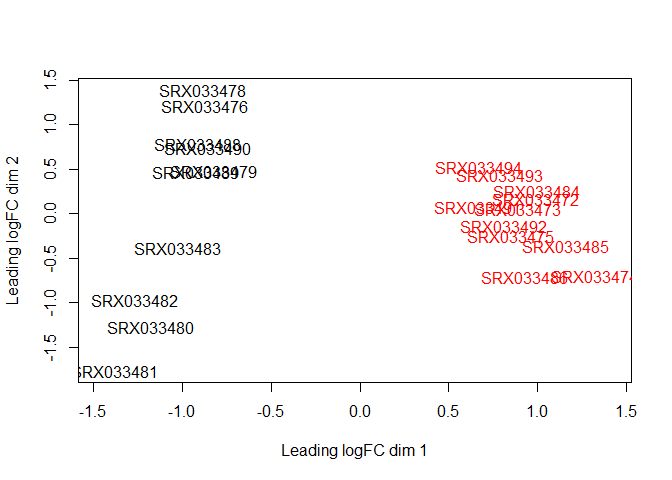
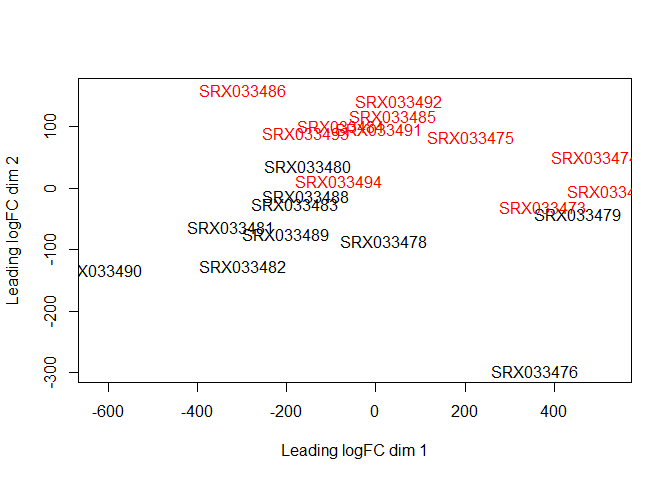
Remove using log count

diff --git a/RNASeq/seminar7_rnaseq.md b/RNASeq/seminar7_rnaseq.md
@@ -137,10 +137,10 @@ head(dge.obj$samples)
 What's the smallest lib.size?
 
 ``` r
-min(dge.obj$samples$lib.size)
+(min_lib_size_million <- min(dge.obj$samples$lib.size) / 1000000)
 ```
 
-    ## [1] 2717092
+    ## [1] 2.717092
 
 The smallest lib size is about 2.7 millions.
 
@@ -151,7 +151,7 @@ The smallest lib size is about 2.7 millions.
 According to the manual, we would drop off the genes that aren't present in at least one sample for any of the conditions and filter with CPM (count-per-million) instead of the rare counts so that we're taking the library sizes into account.
 
 ``` r
-dge.obj.cpm <- cpm(dge.obj, log=TRUE) # count per million. Not sure if I need to do log=TRUE to log transform (base 2) here. 
+dge.obj.cpm <- cpm(dge.obj) # count per million. Not sure if I need to do log=TRUE to log transform (base 2) here. 
 # sanity check using unsupervised clustering
 plotMDS(dge.obj.cpm,  col=c(rep("black",10), rep("red",11)) ) 
 ```
@@ -160,24 +160,24 @@ plotMDS(dge.obj.cpm,  col=c(rep("black",10), rep("red",11)) )
 
 ``` r
 # Filtering 
-threshold <- log2(5)
-keep <- rowSums(dge.obj.cpm > threshold) # filter for log cpm > 3.3
+
+# Manual said "a gene is required to have a count of 5-10" in a library to be considered expressed in that library".
+threshold <- 5/min_lib_size_million # cpm of 2 is equivalent to ~5-6 count in the smallest library
+keep <- rowSums(dge.obj.cpm > threshold) 
 keep <- keep >=10  # filter for gene expressed in at least 10 samples for one condition
 dge.obj.filtered <- dge.obj[keep, , keep.lib.sizes=FALSE] # keep.lib.sizes recalculates the library size. 
 head(dge.obj.filtered$samples)
 ```
 
     ##           group lib.size norm.factors
-    ## SRX033480     1  3021004            1
-    ## SRX033488     1  6263291            1
-    ## SRX033481     1  2699425            1
-    ## SRX033489     1  6503145            1
-    ## SRX033482     1  2996943            1
-    ## SRX033490     1  7049580            1
+    ## SRX033480     1  3034127            1
+    ## SRX033488     1  6290532            1
+    ## SRX033481     1  2711332            1
+    ## SRX033489     1  6532326            1
+    ## SRX033482     1  3009697            1
+    ## SRX033490     1  7081581            1
 
 We can see that the lib.size are smaller compare to those in `dge.obj` after we dropped out some genes.
-
-Manual said "a gene is required to have a count of 5-10" in a library to be considered expressed in that library, so that's why I filter it by log2(5\*2.7); our smallest library size is 2.7 million.
 
 Let's see how many genes we have left.
 
@@ -187,9 +187,9 @@ dim(dge.obj); dim(dge.obj.filtered);
 
     ## [1] 36536    21
 
-    ## [1] 7262   21
+    ## [1] 8655   21
 
-We have 7262 genes left.
+We have 8655 genes left.
 
 ### Normalization
 
@@ -203,12 +203,12 @@ head(dge.obj.filtered.norm$sample)
 ```
 
     ##           group lib.size norm.factors
-    ## SRX033480     1  3021004    0.9870231
-    ## SRX033488     1  6263291    0.9848896
-    ## SRX033481     1  2699425    0.9899273
-    ## SRX033489     1  6503145    1.0091171
-    ## SRX033482     1  2996943    0.9744694
-    ## SRX033490     1  7049580    0.9901168
+    ## SRX033480     1  3034127    0.9799779
+    ## SRX033488     1  6290532    0.9861372
+    ## SRX033481     1  2711332    0.9881436
+    ## SRX033489     1  6532326    1.0024760
+    ## SRX033482     1  3009697    0.9762673
+    ## SRX033490     1  7081581    0.9902589
 
 Now the norm factors are no longer 1 like in `dge.obj.filtered`. norm.factors &lt; 1 tell us that there are a small number of genes that make up a substantial proportion of counts. In this case, the library size will be scaled down so to scale the counts of the other genes upward.
 
@@ -276,12 +276,12 @@ head(DEGenes$table)
 ```
 
     ##                        logFC   logCPM       LR       PValue          FDR
-    ## ENSMUSG00000020912 -5.214229 3.162833 412.5167 1.038245e-91 7.539732e-88
-    ## ENSMUSG00000015484 -1.994976 4.319520 350.9598 2.619011e-78 9.509629e-75
-    ## ENSMUSG00000050141 -5.387814 2.323630 324.8811 1.252295e-72 3.031389e-69
-    ## ENSMUSG00000030532  1.522248 5.577071 312.2159 7.186321e-70 1.304677e-66
-    ## ENSMUSG00000035775 -4.568919 2.678574 310.2938 1.884627e-69 2.737232e-66
-    ## ENSMUSG00000024248 -3.177268 3.479274 290.8811 3.195802e-65 3.867986e-62
+    ## ENSMUSG00000020912 -5.216276 3.158415 411.3119 1.899194e-91 1.643752e-87
+    ## ENSMUSG00000015484 -1.997495 4.314050 342.4881 1.832370e-76 7.929581e-73
+    ## ENSMUSG00000050141 -5.392143 2.319460 315.9460 1.106564e-70 3.192437e-67
+    ## ENSMUSG00000035775 -4.572107 2.674424 303.3321 6.192166e-68 1.339830e-64
+    ## ENSMUSG00000030532  1.519004 5.569878 295.2067 3.648420e-66 6.315415e-63
+    ## ENSMUSG00000024248 -3.180181 3.473316 293.2028 9.970094e-66 1.438186e-62
 
 ``` r
 lattice::histogram(DEGenes$table$PValue) 
@@ -299,7 +299,7 @@ The p values for the first few are crazy small. Let's see how many have p value 
 sum(DEGenes$table$PValue <= 0.001 )
 ```
 
-    ## [1] 556
+    ## [1] 661
 
 ### Gene ontology and pathway analysis
 
@@ -466,7 +466,7 @@ deseq2.genes.names <- rownames(top_deseq2)
 length(edgeR.genes.names); length(deseq2.genes.names); 
 ```
 
-    ## [1] 556
+    ## [1] 661
 
     ## [1] 833
 
@@ -474,7 +474,7 @@ length(edgeR.genes.names); length(deseq2.genes.names);
 length(intersect(edgeR.genes.names, deseq2.genes.names))
 ```
 
-    ## [1] 548
+    ## [1] 640
 
 We get more genes by doing DESEq2. There are many overlapping genes.
 
